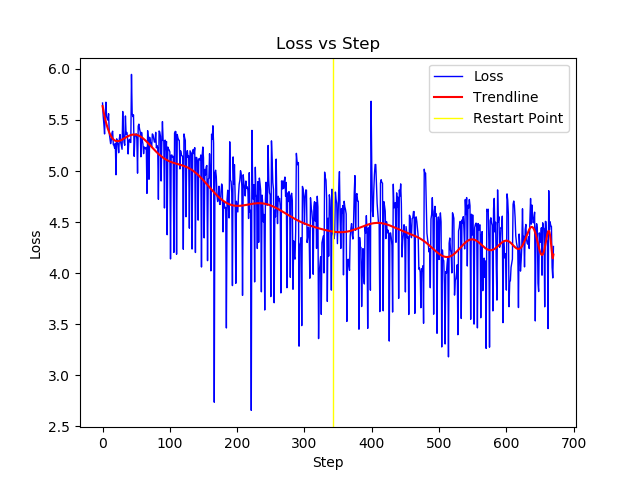
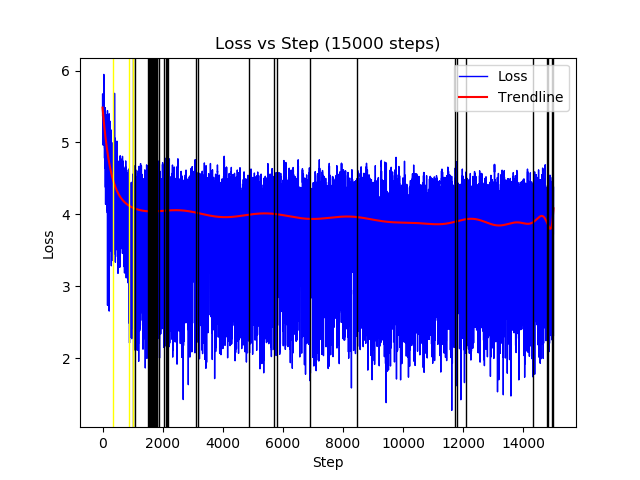
Updated pictures and index file

diff --git a/source/ExtensionCounter.py b/source/ExtensionCounter.py
@@ -1,0 +1,164 @@
+#!/usr/bin/python3
+import os
+import sys
+import json
+import mutagen
+from pydub import AudioSegment as seg
+import time
+
+extz={}
+walk_dir = sys.argv[1]
+out_dir = sys.argv[2]
+
+yearLyst = sorted(['1725',
+ '1955',
+ '1956',
+ '1957',
+ '1958',
+ '1960',
+ '1961',
+ '1963',
+ '1964',
+ '1965',
+ '1966',
+ '1967',
+ '1968',
+ '1969',
+ '1970',
+ '1971',
+ '1972',
+ '1973',
+ '1974',
+ '1975',
+ '1976',
+ '1977',
+ '1978',
+ '1979',
+ '1980',
+ '1981',
+ '1982',
+ '1983',
+ '1984',
+ '1985',
+ '1986',
+ '1987',
+ '1988',
+ '1989',
+ '1990',
+ '1991',
+ '1992',
+ '1993',
+ '1994',
+ '1995',
+ '1996',
+ '1997',
+ '1998',
+ '1999',
+ '2000',
+ '2001',
+ '2002',
+ '2003',
+ '2004',
+ '2005',
+ '2006',
+ '2007',
+ '2008',
+ '2009',
+ '2010',
+ '2011',
+ '2012',
+ '2013',
+ '2014',
+ '2015',
+ '2016',
+ '2017',
+ '2019'])
+
+genreLyst = sorted(["metal",
+            "hip",
+            "rock",
+            "classical",
+			'hardcore'])
+
+index = 0
+
+start = time.time()
+
+extz['error'] = []
+extz['skip'] = []
+
+for root, directories, filenames in os.walk(walk_dir):
+	for filename in filenames:
+		filepath=os.path.join(root,filename)
+		ext=os.path.splitext(filename)[-1].lower()
+
+		if ext not in extz:
+			extz[ext] = {}
+			extz[ext]['kount'] = 0
+			extz[ext]['GENRE'] = {}
+			extz[ext]['YEAR'] = {}
+
+		extz[ext]['kount'] += 1
+
+		if ext == '.mp3' or ext == '.flac':
+			print(filename)
+			try:
+				muta = mutagen.File(filepath)
+				genre, year = None, None
+
+				if 'TCON' in muta:
+					genre = str(muta['TCON'][0]).lower()
+
+					if 'metal' in genre:
+						genre = 'metal'
+					elif 'hip' in genre or 'rap' in genre:
+						genre = 'hip'
+					elif 'rock' in genre:
+						genre = 'rock'
+					elif 'hardcore' in genre:
+						genre = 'hardcore'
+
+					if genre in extz[ext]['GENRE']:
+						extz[ext]['GENRE'][genre] += 1
+					else:
+						extz[ext]['GENRE'][genre] = 1
+
+				if 'TDRC' in muta:
+
+					year = str(muta['TDRC'][0])
+
+					if (len(year) > 4):
+						year = year[0:4]
+
+					if year == '' or year == ' ' or year == '0000' or year == '0004':
+						continue
+
+					if year in extz[ext]['YEAR']:
+						extz[ext]['YEAR'][year] += 1
+					else:
+						extz[ext]['YEAR'][year] = 1
+
+				if genre in ('metal', 'hip', 'rock', 'classical', 'hardcore') and year is not None:
+					print('working with file: ' + str(filename))
+
+					output = seg.from_file(filepath, ext.replace('.',''))
+
+					minuteLength = int(len(output)/1000/60)
+					if (minuteLength >= 2):
+						wavName = str(len(yearLyst) * genreLyst.index(genre) + yearLyst.index(year)) + '_' + str(index) + '.wav'
+						index += 1
+
+						output = output[:2*60*1000]
+						output = output.set_frame_rate(16000)
+						output.export(os.path.join(out_dir,wavName), format='wav')
+						print('outputed: ' + str(wavName))
+					else:
+						extz['skip'] += [filepath]
+						print('skipping: ' + str(wavName))
+
+			except:
+				extz['error'] += [filename]
+
+print('Took ' + str(time.time() - start))
+with open('data.json', 'w') as outfile:
+	json.dump(extz, outfile)

diff --git a/source/gen.py b/source/gen.py
@@ -1,0 +1,49 @@
+#!/usr/bin/python3
+import os
+import sys
+import json
+import mutagen
+from pydub import AudioSegment as seg
+import time
+
+extz={}
+walk_dir = sys.argv[1]
+out_dir = sys.argv[2]
+
+index = 0
+itr = 5000
+end = 4400
+
+start = time.time()
+
+def cmd(num, sec=30):
+	cmdstart = time.time()
+
+	global walk_dir
+	for genre in range(5):
+		os.chdir('.../tensorflow-wavenet/')
+		rawString = 'python3 generate.py --samples ' \
+			+ str(16000 * sec) + ' --gc_channels=32 --gc_cardinality=5 --gc_id=' + str(genre) \
+			+ ' --wav_out_path '+str(out_dir)+'gen_genre-' + str(genre) + '_num-' + str(num) + '.wav ' \
+			+ str(walk_dir) + 'model.ckpt-' + str(num)
+		
+		print(rawString)
+
+	print('Gen of num/sec ' + str(num) + '/' + str(sec) + ' took ' + str(time.time() - cmdstart))
+
+index = 20
+itr = 5000
+end = 15000
+
+while index <= end:
+
+	cmd(index)
+	index = index + itr
+	if index == end:
+		sys.exit(0)
+	if index > end:
+		index = end
+
+	time.sleep(1)
+
+print('Took ' + str(time.time() - start))

diff --git a/docs/index.md b/docs/index.md
@@ -69,7 +69,7 @@ For this we ran a script to automatically go through the music files, and if the
 
 ### Train the model
 
-To train the model, we ran the library for roughly # days using the following command:
+To train the model, we ran the library for roughly 4 days using the following command:
 > python3 train.py --data_dir=~/Data/ --gc_channels=32 --checkpoint_every=1 --batch_size=2 1&>2 results.txt
 
 Using anouther script to parse through the results.txt file, we were able to obtain the following statistics throughout the training process.
@@ -96,6 +96,59 @@ Using anouther script to parse through the results.txt file, we were able to obt
 ### Experiment Results
 #### Model Training Statistics
 #### Generated Samples
+##### Classical Music Generations
+###### Step 20
+[Classical Music Step 20](./../audiogen/classical_20.wav)
+###### Step 5020
+[Classical Music Step 5020](./../audiogen/classical_5020.wav)
+###### Step 10020
+[Classical Music Step 10020](./../audiogen/classical_10020.wav)
+###### Step 15000
+[Classical Music Step 15000](./../audiogen/classical_15000.wav)
+##### Hardcore Music Generations
+###### Step 20
+[Hardcore Music Step 20](./../audiogen/hardcore_20.wav)
+###### Step 5020
+[Hardcore Music Step 5020](./../audiogen/hardcore_5020.wav)
+###### Step 10020
+[Hardcore Music Step 10020](./../audiogen/hardcore_10020.wav)
+###### Step 15000
+[Hardcore Music Step 15000](./../audiogen/hardcore_15000.wav)
+##### Hip Music Generations
+###### Step 20
+[Hip Music Step 20](./../audiogen/hip_20.wav)
+###### Step 5020
+[Hip Music Step 5020](./../audiogen/hip_5020.wav)
+###### Step 10020
+[Hip Music Step 10020](./../audiogen/hip_10020.wav)
+###### Step 15000
+[Hip Music Step 15000](./../audiogen/hip_15000.wav)
+##### Metal Music Generations
+###### Step 20
+[Metal Music Step 20](./../audiogen/metal_20.wav)
+###### Step 5020
+[Metal Music Step 5020](./../audiogen/metal_5020.wav)
+###### Step 10020
+[Metal Music Step 10020](./../audiogen/metal_10020.wav)
+###### Step 15000
+[Metal Music Step 15000](./../audiogen/metal_15000.wav)
+##### Rock Music Generations
+###### Step 20
+[Rock Music Step 20](./../audiogen/rock_20.wav)
+###### Step 5020
+[Rock Music Step 5020](./../audiogen/rock_5020.wav)
+###### Step 10020
+[Rock Music Step 10020](./../audiogen/rock_10020.wav)
+###### Step 15000
+[Rock Music Step 15000](./../audiogen/rock_15000.wav)
+<a href="file://../../audiogen/rock_15000.wav">Play sound file</a>
+
+| Step-Checkpoint/Genre | Hardcore                                                             | Classical                                                          | Hip                                                      | Metal                                                        | Rock                                                       |
+|:---------------------:|----------------------------------------------------------------------|--------------------------------------------------------------------|----------------------------------------------------------|--------------------------------------------------------------|------------------------------------------------------------|
+| 20                    | [ Classical Music Step 20 ] ( ./../audiogen/classical_20.wav )       | [ Hardcore Music Step 20 ] ( ./../audiogen/hardcore_20.wav )       | [ Hip Music Step 20 ] ( ./../audiogen/hip_20.wav )       | [ Metal Music Step 20 ] ( ./../audiogen/metal_20.wav )       | [ Rock Music Step 20 ] ( ./../audiogen/rock_20.wav )       |
+| 5020                  | [ Classical Music Step 5020 ] ( ./../audiogen/classical_5020.wav )   | [ Hardcore Music Step 5020 ] ( ./../audiogen/hardcore_5020.wav )   | [ Hip Music Step 5020 ] ( ./../audiogen/hip_5020.wav )   | [ Metal Music Step 5020 ] ( ./../audiogen/metal_5020.wav )   | [ Rock Music Step 5020 ] ( ./../audiogen/rock_5020.wav )   |
+| 10020                 | [ Classical Music Step 10020 ] ( ./../audiogen/classical_10020.wav ) | [ Hardcore Music Step 10020 ] ( ./../audiogen/hardcore_10020.wav ) | [ Hip Music Step 10020 ] ( ./../audiogen/hip_10020.wav ) | [ Metal Music Step 10020 ] ( ./../audiogen/metal_10020.wav ) | [ Rock Music Step 10020 ] ( ./../audiogen/rock_10020.wav ) |
+| 15000                 | [ Classical Music Step 15000 ] ( ./../audiogen/classical_15000.wav ) | [ Hardcore Music Step 15000 ] ( ./../audiogen/hardcore_15000.wav ) | [ Hip Music Step 15000 ] ( ./../audiogen/hip_15000.wav ) | [ Metal Music Step 15000 ] ( ./../audiogen/metal_15000.wav ) | [ Rock Music Step 15000 ] ( ./../audiogen/rock_15000.wav ) |
 
 Basic Template sourced from: https://github.com/pages-themes/midnight
 
@@ -107,6 +160,7 @@ Text can be **bold**, _italic_, or ~~strikethrough~~.
 There should be whitespace between paragraphs.
 
 There should be whitespace between paragraphs. We recommend including a README, or a file with information about your project.
+
 
 # Header 1
 

diff --git a/todo.md b/todo.md
@@ -1,0 +1,17 @@
+# Summary - Michael
+# Procedure - Myles w/Michael
+## Link source code
+## Link wavenet tensorflow code
+## Push Trained model
+## Push audio samples
+clear && python3 train.py --data_dir=/media/maister/Seagate\ Backup\ Plus\ Drive/Stuff/Data/ --gc_channels=32 --checkpoint_every=1 --batch_size=2
+
+clear && python3 train.py --data_dir=/media/maister/Seagate\ Backup\ Plus\ Drive/Stuff/Data/ --gc_channels=32 --checkpoint_every=1 --batch_size=2
+
+clear && python3 generate.py --samples 16000 --gc_channels=32 --gc_cardinality=5 --gc_id=0 --wav_out_path raplh.wav logdir/train/2019-11-23T17-05-09/model.ckpt-30
+## Pull the loss of the training model
+Python scripting + bash script?
+# Links - Myles && Michael
+# Summarize the results
+## Print the logs
+## Diagram of the loss functionality with overlay of how "musical" they sound
